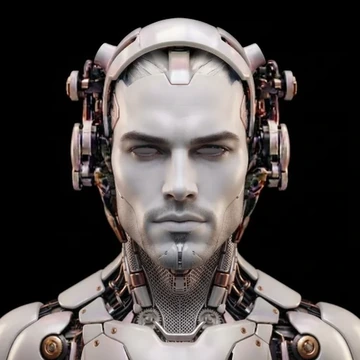
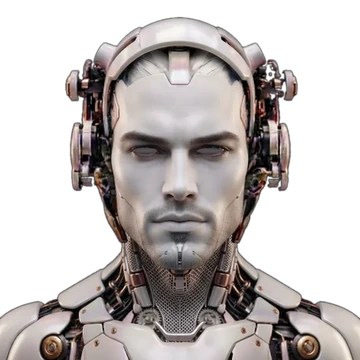
0.38.76 · телефон 0.6.63: светлый неоморфизм без серости, Патрик без чёрного квадрата
Claude-Session: https://claude.ai/code/session_01QF2VpPtgUn29ELFTKJdb3r

diff --git a/ui/assets/entities.js b/ui/assets/entities.js
@@ -885,6 +885,7 @@
     const smileGoal = !talking && A.smileTill && (e.state === "idle" || e.state === "listening") ? 1 : 0;
     A.smile += (smileGoal - A.smile) * Math.min(1, dt * 3);
 
+    const neu = e.tone === "neu";
     ctx.save(); ctx.beginPath(); ctx.arc(0, 0, R, 0, TAU); ctx.clip();
     const G = L.geo, [cx0, cy0, cs] = G.crop;             // портрет целиком: видно причёску (хвостики Лиры), лицо не огромное
     // к зрителю — лёгкий сдвиг без увеличения: портрет целиком, кадр крупнее исходного (отзыв 14.10: «лицо стало крупнее,
@@ -892,8 +893,13 @@
     const gk = e.lookGain, z = 1, ox = e._lx * R * 0.03 * gk, oy = e._ly * R * 0.025 * gk;
     const sc = (2 * R) / cs * z, X = (x) => -R * z + ox + (x - cx0) * sc, Y = (y) => -R * z + oy + (y - cy0) * sc;
     ctx.imageSmoothingQuality = "high";
-    const mono = e.tone === "mono" || e.tone === "ink";
-    if (mono) {                                   // сдержанно: портрет на стекле — сквозь круг виден фон окна
+    const mono = e.tone === "mono" || e.tone === "ink" || e.tone === "neu";
+    if (neu) {                                    // светлый неоморфизм (отзыв 18.10: «серо-грязно»): мягкий свет студии за
+      // портретом — лицо светлее материала, без тени внутрь и без рамки; снизу портрет растворяется в выпуклом диске
+      const lt = neuColors().light, sl = ctx.createRadialGradient(0, -R * 0.18, R * 0.05, 0, -R * 0.05, R * 1.02);
+      sl.addColorStop(0, lt); sl.addColorStop(0.55, lt + "aa"); sl.addColorStop(1, lt + "00");
+      ctx.fillStyle = sl; ctx.fillRect(-R, -R, 2 * R, 2 * R);
+    } else if (mono) {                            // сдержанно: портрет на стекле — сквозь круг виден фон окна
       ctx.fillStyle = "rgba(255,255,255,.04)"; ctx.fillRect(-R, -R, 2 * R, 2 * R);
     } else {
       const bgr = ctx.createRadialGradient(0, -R * 0.2, R * 0.1, 0, 0, R);   // портрет на прозрачном фоне — подкладываем тёмный
@@ -923,8 +929,16 @@
     // нет связи — притушить ВЕСЬ портрет ровно одним слоем (раньше тускнело лицо, а губы и глаза, нарисованные поверх,
     // оставались яркими — выглядело жутковато). Микрофон выключен — не тушим: это и так видно по значку и подписи,
     // а тусклый виджет некрасив (отзыв 14.10: «микрофон часто выключаю, чтобы не слушала фон»)
-    if (e.state === "offline") { ctx.fillStyle = "rgba(6,6,10,.45)"; ctx.fillRect(-R, -R, 2 * R, 2 * R); }
+    // светлый неоморфизм — не темним, а «уводим в материал»: тёмная пелена на светлом и делала облик серо-грязным
+    if (e.state === "offline") { ctx.fillStyle = neu ? neuColors().glass + "8c" : "rgba(6,6,10,.45)"; ctx.fillRect(-R, -R, 2 * R, 2 * R); }
     const fade = ctx.createLinearGradient(0, R * 0.55, 0, R);   // низ портрета (обрез туловища) растворяется в фоне
+    if (neu) {                                    // край без среза: плечи и низ мягко уходят в материал диска
+      ctx.globalCompositeOperation = "destination-in";
+      const m = ctx.createRadialGradient(0, -R * 0.12, R * 0.7, 0, -R * 0.12, R * 1.08);
+      m.addColorStop(0, "rgba(0,0,0,1)"); m.addColorStop(1, "rgba(0,0,0,0)");
+      ctx.fillStyle = m; ctx.fillRect(-R, -R, 2 * R, 2 * R);
+      ctx.globalCompositeOperation = "source-over";
+    }
     if (mono) {                                   // в прозрачность: внизу проступает фон окна, а не чёрное пятно
       fade.addColorStop(0, "rgba(0,0,0,0)"); fade.addColorStop(0.75, "rgba(0,0,0,.85)"); fade.addColorStop(1, "rgba(0,0,0,1)");
       ctx.globalCompositeOperation = "destination-out"; ctx.fillStyle = fade; ctx.fillRect(-R, R * 0.55, 2 * R, R * 0.45);
@@ -947,11 +961,23 @@
     portraitRim(g, e, R);
   }
 
+  // цвета неоморфной темы (skins.css: --neu-light, --glass) — читаем раз в секунду, а не каждый кадр
+  let neuC = null, neuAt = 0;
+  function neuColors() {
+    const now = performance.now();
+    if (!neuC || now - neuAt > 1000) {
+      const cs = getComputedStyle(document.body), hx = (v, d) => (/^#[0-9a-f]{6}$/i.test(v.trim()) ? v.trim() : d);
+      neuC = { light: hx(cs.getPropertyValue("--neu-light"), "#ffffff"), glass: hx(cs.getPropertyValue("--glass"), "#e4e9f0") }; neuAt = now;
+    }
+    return neuC;
+  }
+
   /* Край портрета. Цветной (по умолчанию): кольцо цвета персонажа со свечением и пунктир. Сдержанный (tone "mono",
      виджет и телефон): портрет «утоплен» в стекло — внутренняя тень по краю и тонкий светлый край, как у фото на сайте;
      пока говорит — край чуть светлеет. */
   function portraitRim(g, e, R) {
     const { ctx, r, c, t, lv, k } = g;
+    if (e.tone === "neu") return;                 // неоморфизм: ни тени внутрь, ни рамки — форму даёт сам материал
     if (e.tone === "ink") {                       // светлая тема: белая рамка и мягкая тень наружу, как у фото в Material
       const v = ctx.createRadialGradient(0, 0, R * 0.82, 0, 0, R);
       v.addColorStop(0, "rgba(0,0,0,0)"); v.addColorStop(1, "rgba(0,0,0,.22)");
@@ -1248,16 +1274,16 @@
         this.state === "listening" ? Math.max(this.level, 0.08 + 0.05 * Math.sin(this.t * 1.7)) : this.level;
       const g = { ctx, r: PR * 0.8, c, t: this.t, lv: lvE, k: st.glow };
       // сдержанный тон: портрет, его край и лучи — холодный белый; абстрактные облики сохраняют цвет персонажа
-      const gm = this.tone === "mono" || this.tone === "ink"
-        ? Object.assign({}, g, { c: this.tone === "ink" ? (st.sat ? [52, 58, 82] : [120, 126, 140]) : st.sat ? [226, 232, 244] : [150, 156, 168] }) : g;
+      const gm = this.tone === "mono" || this.tone === "ink" || this.tone === "neu"
+        ? Object.assign({}, g, { c: this.tone !== "mono" ? (st.sat ? [52, 58, 82] : [120, 126, 140]) : st.sat ? [226, 232, 244] : [150, 156, 168] }) : g;
       // Непрозрачный тёмный диск. Всё свечение рисуется ПО НЕМУ, а не по прозрачному окну:
       // иначе на рабочем столе с аппаратным ускорением свечение «пересвечивается» пятнами.
       // сдержанный портрет — без диска-подложки: портрет «на стекле», как в окне вокруг
-      const plate = this.plate && this.style !== "aura" && !((this.tone === "mono" || this.tone === "ink") && this.style === "photo"), ringOn = this.ring && this.style !== "aura";
+      const plate = this.plate && this.style !== "aura" && !((this.tone === "mono" || this.tone === "ink" || this.tone === "neu") && this.style === "photo"), ringOn = this.ring && this.style !== "aura";
       this._dt = dt;
       if (plate) {
         const pg = ctx.createRadialGradient(0, -PR * 0.25, PR * 0.1, 0, 0, PR);
-        if (this.tone === "mono" || this.tone === "ink") { pg.addColorStop(0, "#1f2029"); pg.addColorStop(0.75, "#14141b"); pg.addColorStop(1, "#0c0c11"); }
+        if (this.tone === "mono" || this.tone === "ink" || this.tone === "neu") { pg.addColorStop(0, "#1f2029"); pg.addColorStop(0.75, "#14141b"); pg.addColorStop(1, "#0c0c11"); }
         else { pg.addColorStop(0, "#26264A"); pg.addColorStop(0.75, "#17172E"); pg.addColorStop(1, "#0D0D1A"); }
         ctx.fillStyle = pg; ctx.beginPath(); ctx.arc(0, 0, PR, 0, TAU); ctx.fill();
         ctx.save(); ctx.beginPath(); ctx.arc(0, 0, PR - 0.5, 0, TAU); ctx.clip();

diff --git a/ui/assets/skins.js b/ui/assets/skins.js
@@ -1,5 +1,5 @@
 /* Темы оформления: id (класс .skin-<id> в skins.css), название, группа, пояснение, tone — облик портрета
-   ("mono" — белый край и белые лучи, "ink" — тёмные лучи и белая рамка для светлых тем, "color" — цвет персонажа);
+   ("mono" — белый край и белые лучи, "ink" — тёмные лучи и белая рамка для светлых тем, "neu" — светлый неоморфизм: без рамки и тени, свет за портретом, "color" — цвет персонажа);
    light — светлая тема (тёмный текст; только виджет — телефон их пока не предлагает), neu — неоморфизм (выпуклые
    формы из одного материала: двойные тени). Общие для виджета, студии и телефона. */
 window.DEWIAR_SKINS = [
@@ -9,9 +9,9 @@ window.DEWIAR_SKINS = [
   { id: "neon", name: "Неон", group: "Тёмные", sub: "Как раньше: свечение и цвет персонажа", tone: "color" },
   { id: "glass", name: "Глассморфизм", group: "Светлые", sub: "Полупрозрачное стекло на нежном градиенте", light: true, tone: "ink" },
   { id: "snow", name: "Белоснежная", group: "Светлые", sub: "Чистый белый и мягкие тени, как в Material", light: true, tone: "ink" },
-  { id: "neu", name: "Жемчужный", group: "Неоморфизм", sub: "Светлый, выпуклые формы из одного материала", light: true, tone: "ink", neu: true },
-  { id: "neusky", name: "Небесный", group: "Неоморфизм", sub: "Светло-голубой, мягкий и прохладный", light: true, tone: "ink", neu: true },
-  { id: "neumint", name: "Мятный", group: "Неоморфизм", sub: "Свежий светло-зелёный, спокойный", light: true, tone: "ink", neu: true },
+  { id: "neu", name: "Жемчужный", group: "Неоморфизм", sub: "Светлый, выпуклые формы из одного материала", light: true, tone: "neu", neu: true },
+  { id: "neusky", name: "Небесный", group: "Неоморфизм", sub: "Светло-голубой, мягкий и прохладный", light: true, tone: "neu", neu: true },
+  { id: "neumint", name: "Мятный", group: "Неоморфизм", sub: "Свежий светло-зелёный, спокойный", light: true, tone: "neu", neu: true },
   { id: "neudark", name: "Графитовый", group: "Неоморфизм", sub: "Тёмный графит, мягкие выпуклые формы", neu: true },
   { id: "neunavy", name: "Ночной", group: "Неоморфизм", sub: "Глубокий синий, формы светятся по краю", neu: true },
   { id: "steel", name: "Сталь", group: "Металл", sub: "Светлый серо-голубой металл" },

diff --git a/ui/hud.html b/ui/hud.html
@@ -47,6 +47,7 @@
   /* неоморфизм: портрет — выпуклая «таблетка» из того же материала (две тени вокруг круга под обликом) */
   body.neu #orb::before { content: ""; position: absolute; left: 50%; top: 50%; width: 63%; height: 63%; transform: translate(-50%, -50%);
                          border-radius: 50%; background: var(--glass); box-shadow: 9px 9px 18px var(--neu-dark), -9px -9px 18px var(--neu-light); }
+  body.neu.light #orb::before { width: 72%; height: 72%; }      /* светлый неоморфизм: поле материала вокруг портрета, без рамки */
   body.neu #orb canvas { position: relative; }
   body.neu .btn:hover, body.neu .ab:hover { background: transparent; box-shadow: inset 3px 3px 6px var(--neu-dark), inset -3px -3px 6px var(--neu-light); }
   body.neu #bar { opacity: .9; }

diff --git a/android/assets/www/app.css b/android/assets/www/app.css
@@ -478,6 +478,8 @@ body.neu {
 }
 body.neu #orbwrap::before { content: ""; position: absolute; left: 50%; top: 50%; width: 63%; height: 63%; transform: translate(-50%, -50%);
   border-radius: 50%; background: var(--glass); box-shadow: 10px 10px 22px var(--neu-dark), -10px -10px 22px var(--neu-light); }
+/* светлый неоморфизм: диск шире портрета — вокруг лица поле того же материала, портрет без рамки (отзыв 18.10) */
+body.neu.light #orbwrap::before { width: 72%; height: 72%; }
 body.neu #orb { position: relative; }
 body.neu :is(.card, .tile, .it, .dday, details.brainalt > summary, #bot.framed) { background: var(--glass); box-shadow: var(--raise); }
 body.neu :is(.who, .ib.soft, .pill, #rchip) { background: var(--glass); box-shadow: var(--raise-s); }

diff --git a/tests/neu1018_test.py b/tests/neu1018_test.py
@@ -1,0 +1,70 @@
+"""Светлый неоморфизм — облик без серости (отзыв 18.10: «в стиле "Небесный" … иконка Лиры в центре смотрится серо-грязно,
+быстрее всего не должно быть внутренней тени, может быть и обводки»). У «Жемчужного», «Небесного» и «Мятного» свой тон
+облика "neu": ни тени внутрь, ни белой рамки; за портретом — мягкий свет студии, края портрета растворяются в выпуклом
+диске, диск шире портрета (поле того же материала). «Нет связи» — не тёмная пелена, а уход в материал.
+Патрик — без чёрного квадрата (фон портрета прозрачный, как у Лиры: tools/live_face.py заливал фон «с макушки» и
+молча не красил). Тёмные волосы Патрику пробовали (18.10) — вышло хуже, остались светлые."""
+import os, shutil, subprocess, sys, tempfile
+from pathlib import Path
+ROOT = Path(os.environ.get("DEWIAR_ROOT") or Path(__file__).resolve().parent.parent)
+fails = []
+
+
+def ok(c, m):
+    print(("✅ " if c else "❌ ") + m)
+    if not c:
+        fails.append(m)
+
+
+skins = (ROOT / "ui/assets/skins.js").read_text(encoding="utf-8")
+for sk in ("neu", "neusky", "neumint"):
+    line = next(x for x in skins.splitlines() if f'id: "{sk}"' in x)
+    ok('tone: "neu"' in line and "light: true" in line, f"«{sk}»: свой тон облика — светлый неоморфизм")
+ent = (ROOT / "ui/assets/entities.js").read_text(encoding="utf-8")
+rim = ent.split("function portraitRim", 1)[1][:400]
+ok('if (e.tone === "neu") return;' in rim, "у светлого неоморфизма нет ни тени внутрь, ни рамки")
+css = (ROOT / "android/assets/www/app.css").read_text(encoding="utf-8")
+hud = (ROOT / "ui/hud.html").read_text(encoding="utf-8")
+ok("body.neu.light #orbwrap::before { width: 72%; height: 72%; }" in css and "body.neu.light #orb::before { width: 72%; height: 72%; }" in hud,
+   "телефон и виджет: диск шире портрета")
+
+from PIL import Image  # noqa: E402
+pat = Image.open(ROOT / "ui/assets/live/patrik.webp")
+ok(pat.mode == "RGBA" and pat.getpixel((5, 5))[3] == 0 and pat.getpixel((180, 180))[3] == 255,
+   f"Патрик: фон прозрачный, лицо на месте: {pat.mode}, {pat.getpixel((5, 5))}, {pat.getpixel((180, 180))}")
+
+from playwright.sync_api import sync_playwright  # noqa: E402
+tmp = Path(tempfile.mkdtemp()); www = tmp / "www"
+shutil.copytree(ROOT / "android/assets/www", www)
+for x in ("entities.js", "speechnorm.js", "skins.css", "skins.js"):
+    shutil.copy(ROOT / "ui/assets" / x, www / x)
+shutil.copytree(ROOT / "ui/assets/live", www / "live", dirs_exist_ok=True)
+shutil.copytree(ROOT / "ui/assets/skins", www / "skins", dirs_exist_ok=True)
+(www / "personas.js").write_text(subprocess.run([sys.executable, str(ROOT / "android/tools/personas_json.py"), str(ROOT)],
+                                                capture_output=True, text=True, check=True).stdout, encoding="utf-8")
+with sync_playwright() as pw:
+    b = pw.chromium.launch(); pg = b.new_page(viewport={"width": 412, "height": 880}); errs = []
+    pg.on("pageerror", lambda e: errs.append(str(e)))
+    pg.goto((www / "index.html").as_uri()); pg.wait_for_timeout(2500)
+
+    def edge(sk, state="idle"):
+        """Яркость у края портрета внутри круга и фона рядом с диском (по снимку экрана)."""
+        pg.evaluate("([sk, st]) => { S.skin = sk; applyLook(); orb.state = st; }", [sk, state]); pg.wait_for_timeout(700)
+        r = pg.evaluate("() => { const b = document.getElementById('orb').getBoundingClientRect(); return [b.left, b.top, b.width]; }")
+        pg.screenshot(path=str(tmp / "s.png"))
+        im = Image.open(tmp / "s.png").convert("L"); cx, cy, w = r[0] + r[2] / 2, r[1] + r[2] / 2, r[2]
+        R = w / 2 * 0.8 * 0.78                         # радиус портрета (entities.js: r = PR·0.8, R = r·0.78)
+        inner = sum(im.getpixel((int(cx + s * R * 0.93), int(cy - R * 0.55))) for s in (-1, 1)) / 2
+        face = im.getpixel((int(cx), int(cy - R * 0.1)))
+        return inner, face
+    for sk in ("neusky", "neu", "neumint"):
+        inner, face = edge(sk)
+        bg = Image.open(tmp / "s.png").convert("L").getpixel((20, 300))
+        ok(inner >= bg - 4, f"«{sk}»: у края портрета не темнее фона — нет тени внутрь ({inner:.0f} против фона {bg})")
+    _, face_on = edge("neusky", "idle")
+    _, face_off = edge("neusky", "offline")
+    ok(face_off > face_on, f"«Небесный», нет связи: облик бледнеет, а не темнеет ({face_off} против {face_on})")
+    ok(not errs, f"без ошибок на странице: {errs[:2]}")
+    b.close()
+print("\nИТОГ:", "всё прошло" if not fails else f"не прошло {len(fails)}")
+sys.exit(1 if fails else 0)

diff --git a/tests/look_test.py b/tests/look_test.py
@@ -60,7 +60,7 @@ for (const fx of ["bars", "pulse", "wave"]) for (const tone of ["mono", "color"]
     ok("skin-brand" in w0[0] and w0[1] == "mono" and w0[2] == "bars", f"виджет по умолчанию: {w0}")
     pg.evaluate("() => core.emit('settings', { settings: { ui: { skin: 'neu' } } })")
     wl = pg.evaluate("() => [document.body.className, entity.tone, getComputedStyle(document.getElementById('bubble')).color, getComputedStyle(document.getElementById('bubble')).boxShadow]")
-    ok("light" in wl[0] and "neu" in wl[0] and wl[1] == "ink" and wl[2] != "rgb(255, 255, 255)" and wl[3].count("rgb") >= 2,
+    ok("light" in wl[0] and "neu" in wl[0] and wl[1] == "neu" and wl[2] != "rgb(255, 255, 255)" and wl[3].count("rgb") >= 2,
        f"неоморфизм: светлая тема, тёмный текст, двойные тени, тёмные лучи: {wl[:3]}")
     pg.evaluate("() => core.emit('settings', { settings: { ui: { skin: 'neon', voice_fx: 'pulse' } } })")
     w1 = pg.evaluate("() => [document.body.className, entity.tone, entity.fx, getComputedStyle(document.getElementById('card')).backgroundImage.includes('51, 32, 58')]")

diff --git a/tools/live_face.py b/tools/live_face.py
@@ -35,9 +35,10 @@ def portrait():
     big = np.asarray(src.resize((1080, 1080), Image.LANCZOS)).astype(np.float32)
     # фон: тёмное, связанное с краем — прозрачное (заливка от углов по маске «почти чёрное»)
     dark = (big.max(2) < 26).astype(np.uint8) * 255
-    m = Image.fromarray(dark, "L")
+    m = Image.fromarray(dark, "L").copy()       # копия: картинка поверх массива numpy только для чтения — floodfill молча не красил (Pillow 12)
     for xy in [(0, 0), (1079, 0), (0, 1079), (1079, 1079), (540, 0), (0, 540), (1079, 540)]:
-        ImageDraw.floodfill(m, xy, 128)
+        if m.getpixel(xy) == 255:                                  # только с тёмной точки фона (не с макушки)
+            ImageDraw.floodfill(m, xy, 128)
     bg = (np.asarray(m) == 128)
     alpha = Image.fromarray(np.where(bg, 0, 255).astype(np.uint8), "L").filter(ImageFilter.GaussianBlur(1.6))
     rgba = Image.fromarray(big.clip(0, 255).astype(np.uint8), "RGB").convert("RGBA")

diff --git a/core/version.py b/core/version.py
@@ -1,4 +1,4 @@
 """Версия Dewiar — одна на всё ядро. ui/app.py и ui/doctor.py читают её прямо из файла регулярным выражением
 по строке, которая начинается с VERSION и знака равенства, — вид той строки не менять
 (и не писать её образец в начале строки здесь: поиск берёт первую подходящую строку)."""
-VERSION = "0.38.75"
+VERSION = "0.38.76"

diff --git a/android/src/pro/dewiar/app/BuildInfo.java b/android/src/pro/dewiar/app/BuildInfo.java
@@ -4,6 +4,6 @@ package pro.dewiar.app;
  *  versionCode = мажор·10000 + минор·100 + патч — каждая часть меньше 100); её же видят отчёт о падении (App.java),
  *  User-Agent запросов (Net.java) и интерфейс через Dewiar.info() (Bridge.java). */
 public final class BuildInfo {
-    public static final String VERSION = "0.6.62";
+    public static final String VERSION = "0.6.63";
     private BuildInfo() { }
 }

diff --git a/CHANGELOG.md b/CHANGELOG.md
@@ -4,6 +4,14 @@
 Текущий выпуск для людей — в [RELEASE_NOTES.md](RELEASE_NOTES.md) (его же видит программа в «Доступна версия…»).
 Метки версий в git — `v0.28.2` и новее.
 
+## 0.38.76 · телефон 0.6.63 — 2026-10-18
+
+- **«Жемчужный», «Небесный», «Мятный» — облик без серости** (18.10: «иконка Лиры в центре смотрится серо-грязно… не
+  должно быть внутренней тени, может, и обводки»). У светлого неоморфизма теперь свой облик: ни тени внутрь, ни белой
+  рамки; за портретом — мягкий свет, края портрета растворяются в выпуклом диске из того же материала, и диск шире
+  портрета. «Нет связи» не темнит лицо, а делает его бледнее. Телефон и виджет компьютера одинаково.
+- **Патрик** — без чёрного квадрата за портретом: фон прозрачный, как у Лиры, во всех темах.
+
 ## 0.38.75 · телефон 0.6.62 — 2026-10-17
 
 - **План дня — в «Делах», а не в календаре** (17.10: «Запланируй на сегодня: в 13 позвонить в банк, в 16 тренировка,

diff --git a/RELEASE_NOTES.md b/RELEASE_NOTES.md
@@ -1,3 +1,4 @@
+- **Светлый неоморфизм без серости** (0.38.76 / 0.6.63): в «Жемчужном», «Небесном» и «Мятном» облик чистый — без тени внутрь и рамки; Патрик — без чёрного квадрата за портретом
 - **План дня и отметки «сделано»** (0.38.75 / 0.6.62): «запланируй на сегодня: в 13…, в 16…» — дела в «Делах», а не в календаре; «я позвонил в банк» — отметка и достижения
 - **Делает, а не говорит** (0.38.74 / 0.6.61): видео на YouTube — сразу и в новом окне; «сфотографируй чек» на телефоне — снимает сам; окно идеи не уезжает за край
 - **Звонок и сообщение близким — сразу** (0.38.73): «позвони Людмиле по видео», «напиши Андрею: …» — без промахов, без модели

diff --git a/README.md b/README.md
@@ -162,7 +162,7 @@ flowchart LR
 | `server/` | Серверы речи и синтеза для своей машины с видеокартой (`install-server.sh`) |
 | `packaging/`, `tools/` | Пакет `.deb`, установщики Windows, выпуск версии одной командой |
 | `data/` | Облики персонажей, встроенные навыки, модель VAD, радио |
-| `tests/` | 182 наборов проверок: настоящее ядро, окна в Chromium, телефон на подменённом мосте |
+| `tests/` | 183 наборов проверок: настоящее ядро, окна в Chromium, телефон на подменённом мосте |
 
 </details>
 
